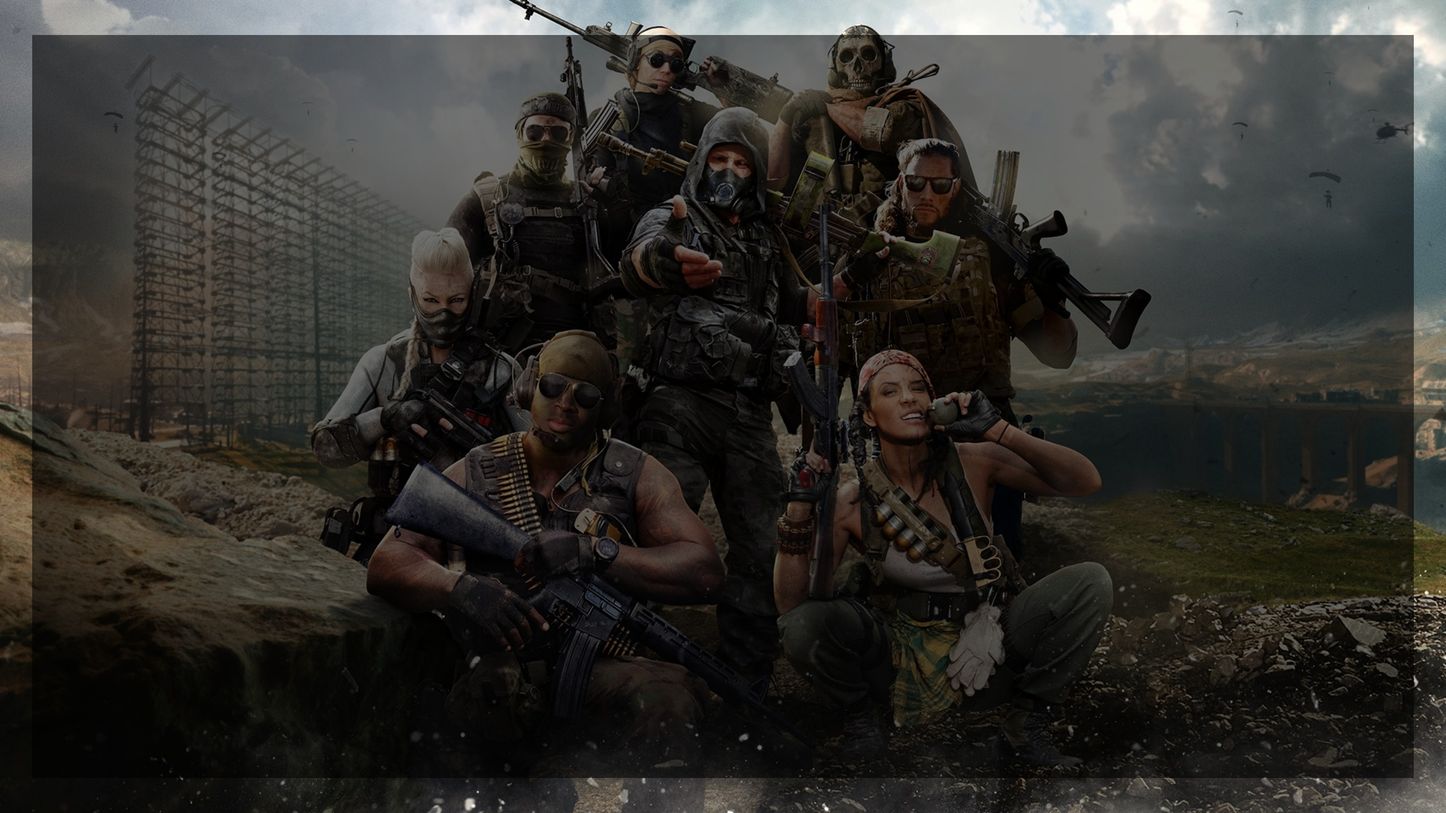
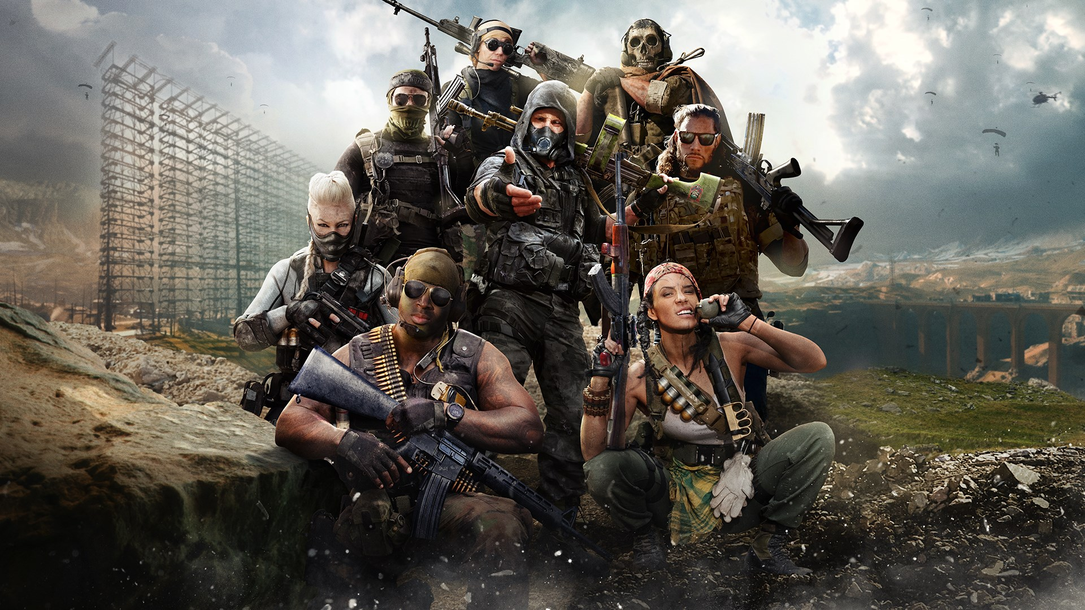
Make site responsive, update bg

diff --git a/score-bot-ark-template/src/app/Views/MainScreen/main-screen/main-screen.component.sass b/score-bot-ark-template/src/app/Views/MainScreen/main-screen/main-screen.component.sass
@@ -14,11 +14,11 @@ $padding-small: 6px
 .root
   background-image: $arrow, $arrow-2, $legion-logo, $bg
   background-position: top left, bottom right, bottom left, top center
-  background-size: auto 100px, auto 100px, auto 40px, cover
+  background-size: auto 160px, auto 160px, auto 30px, cover
   background-repeat: no-repeat
   width: 100%
   height: 100%
-  padding: 4em
+  padding: 2em
   *
     scrollbar-width: thin
 
@@ -31,7 +31,7 @@ $padding-small: 6px
   background-color: rgba(#000, 0)
 
 .container
-  background-color: rgba(#000, 0)
+  background-color: rgba(#000, 0.6)
   width: 100%
   height: 100%
   padding: 1em
@@ -63,16 +63,18 @@ $padding-small: 6px
     grid-area: details
     transition: 256ms
 
-    .value
-      width: max-content
-      display: grid
-      grid-template-columns: minmax(8em, 20vw) auto
-      grid-auto-flow: column
-      justify-content: space-between
-      gap: 3em
-      margin-bottom: .2em
+.value
+  width: max-content
+  display: grid
+  grid-template-columns: minmax(8em, 20vw) auto
+  grid-auto-flow: column
+  justify-content: space-between
+  gap: 3em
+  margin-bottom: .2em
 
-      font-size: bold
+  font-size: 1.2em
+  font-weight: bolder
+  color: #fff
 
 header
   grid-area: header
@@ -113,9 +115,71 @@ header
   transform: translateY(3em) !important
   transition: 400ms ease-out !important
 
+.dialog
+  //Hidden for desktop layouts.
+  display: none
+  position: fixed
+  top: 50%
+  left: 50%
+  transform: translate(-50%, -50%)
+
+  width: 100vw
+  height: 100vh
+
+  justify-content: center
+  align-items: center
+
+  z-index: 9999
+
+  &::before
+    content: ''
+    position: absolute
+    width: 100%
+    height: 100%
+    top: 0
+    left: 0
+    background-color: rgba(#fff, 0.1)
+    backdrop-filter: blur(2px)
+    z-index: -1
+
+  &__content
+    margin: auto
+    width: 100vw
+    height: max-content
+    background-color: rgba(#000, 0.76)
+    transform: scale(1)
+    padding: 2em
+    animation: fade-up 400ms
+
+// Responsive
+@media (max-width: 480px)
+
+  .root
+    padding: 0
+    background-size: auto 50px, auto 50px, auto 20px, cover
+
+  .logo
+    height: 70px
+
+  .container
+    display: grid
+    grid-template-rows: max-content 1fr
+    grid-template-columns: minmax(200px, 40vw) 1fr
+    grid-template-areas: "header header" "standings standings"
+
+    font-size: 1em
+    .details
+      display: none
+
+  .super-title
+    font-size: 1.2em
+
+  .dialog
+    display: grid
+
 @keyframes fade-up
   from
-    transform: translateY(1em)
+    transform: translateY(100%)
     opacity: 0
   to
     transform: translateY(0)

diff --git a/score-bot-ark-template/src/app/Views/MainScreen/main-screen/main-screen.component.html b/score-bot-ark-template/src/app/Views/MainScreen/main-screen/main-screen.component.html
@@ -1,5 +1,8 @@
 <main class="root">
-  <img class="logo" src="assets/Ark_Logo_pre_approved-10.png" />
+  <!-- !!TODO: Make this an href -->
+  <a href="">
+    <img class="logo" src="assets/Ark_Logo_pre_approved-10.png" />
+  </a>
   <div class="container">
     <header>
       <h1 class="super-title">CWT Nationals - 1A</h1>
@@ -56,3 +59,9 @@
     <span>{{ gameData?.info.rounds }}</span>
   </p>
 </ng-template>
+
+<div class="dialog" *ngIf="currentPlayer" (click)="resetCurrentPlayer()">
+  <div class="dialog__content" (click)="$event.stopPropagation()">
+    <ng-container *ngTemplateOutlet="playerStats"></ng-container>
+  </div>
+</div>

diff --git a/score-bot-ark-template/src/app/Views/MainScreen/main-screen/main-screen.component.ts b/score-bot-ark-template/src/app/Views/MainScreen/main-screen/main-screen.component.ts
@@ -106,4 +106,8 @@ export class MainScreenComponent implements OnInit {
       (player?.overallScore || 0) / player?.scoreList.length ?? 0;
     return _average.toFixed(1);
   }
+
+  resetCurrentPlayer() {
+    this.currentPlayer = null;
+  }
 }
